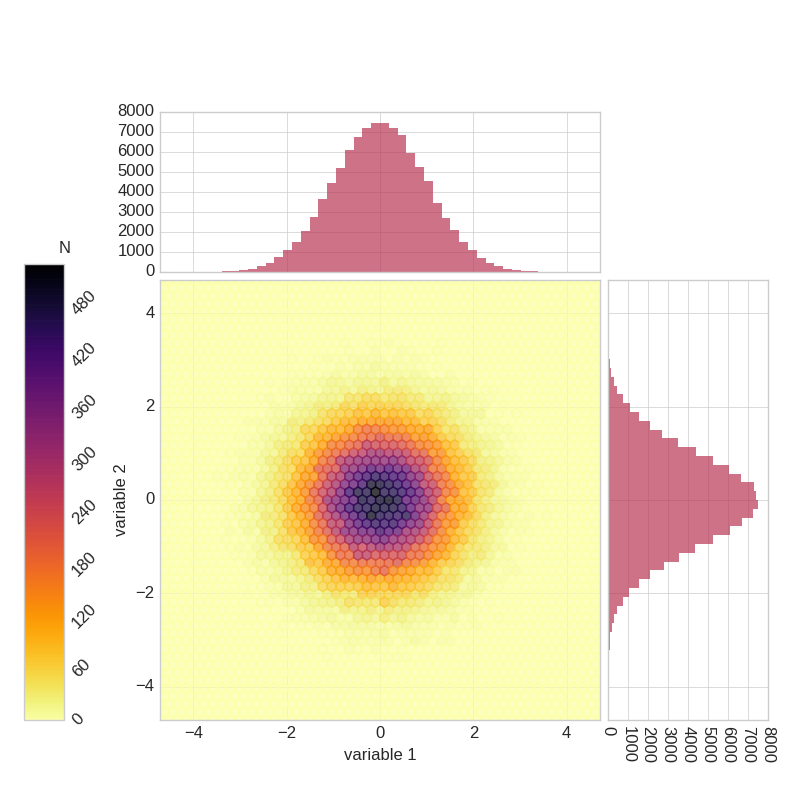
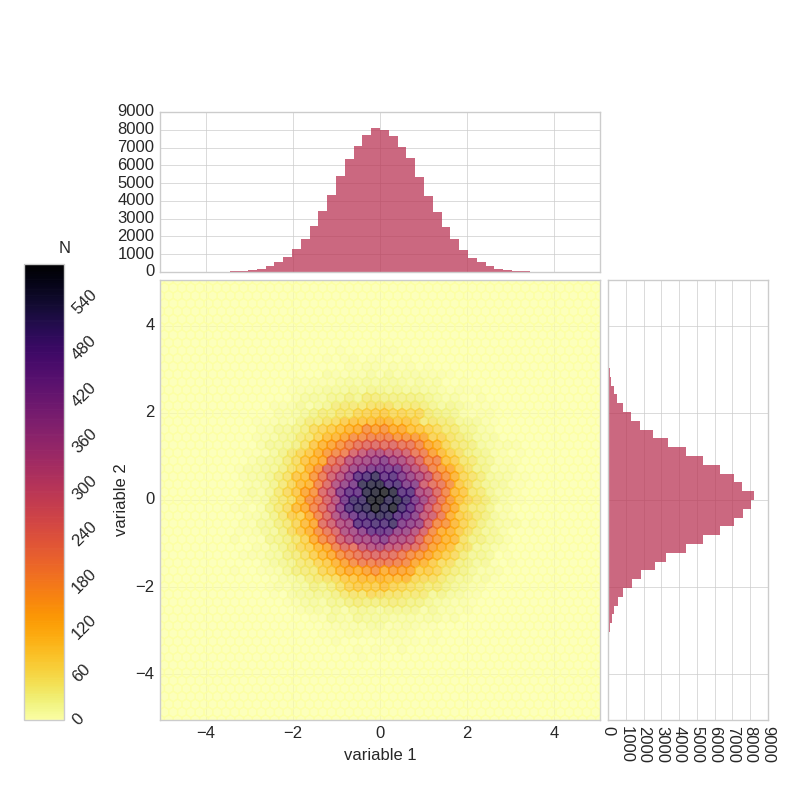
added alpha parameters for hexbin and marginals

diff --git a/qplots/qplots/qplots.py b/qplots/qplots/qplots.py
@@ -8,7 +8,7 @@ from matplotlib.widgets import Slider, Button, RadioButtons
 #_mpl.rcParams['lines.markeredgewidth'] = 1 # set default markeredgewidth to 1 overriding seaborn's default value of 0
 _plt.style.use('seaborn-whitegrid')
 
-def joint_plot(x, y, marginalBins=50, gridsize=50, plotlimits=None, logscale_cmap=False, logscale_marginals=False, cmap="inferno_r", marginalCol=None, figsize=(8, 8), fontsize=8, *args, **kwargs):
+def joint_plot(x, y, marginalBins=50, gridsize=50, plotlimits=None, logscale_cmap=False, logscale_marginals=False, alpha_hexbin=0.75, alpha_marginals=0.75, cmap="inferno_r", marginalCol=None, figsize=(8, 8), fontsize=8, *args, **kwargs):
     """
     Plots some x and y data using hexbins along with a colorbar
     and marginal distributions (X and Y histograms).
@@ -34,6 +34,10 @@ def joint_plot(x, y, marginalBins=50, gridsize=50, plotlimits=None, logscale_cma
     logscale_marginals : bool, optional
         Sets whether to use a logscale for the marignals.
         Defaults to False.
+    alpha_hexbin : float
+        Alpha value to use for hexbins and color map
+    alpha_marginals : float
+        Alpha value to use for marginal histograms
     cmap : string, optional
         Specifies the colormap to use, see
         https://matplotlib.org/users/colormaps.html
@@ -119,13 +123,15 @@ def joint_plot(x, y, marginalBins=50, gridsize=50, plotlimits=None, logscale_cma
                 plotlimits = ymax * 1.1
 
         # the hexbin plot:
-        hb = axHexBin.hexbin(x, y, gridsize=gridsize, bins=hexbinscale, cmap=cmapOb, alpha=0.75, extent=(-plotlimits, plotlimits, -plotlimits, plotlimits), *args, **kwargs)
+        hb = axHexBin.hexbin(x, y, gridsize=gridsize, bins=hexbinscale, cmap=cmap, alpha=alpha_hexbin, extent=(-plotlimits, plotlimits, -plotlimits, plotlimits), *args, **kwargs)
         axHexBin.axis([-plotlimits, plotlimits, -plotlimits, plotlimits])
 
         cbaraxes = fig.add_axes(cbar_pos)  # This is the position for the colorbar
         #cbar = _plt.colorbar(axp, cax = cbaraxes)
-        cbar = fig.colorbar(hb, cax = cbaraxes, alpha=0.75) #, orientation="horizontal"
+        cbar = fig.colorbar(hb, cax = cbaraxes, drawedges=False) #, orientation="horizontal"
         cbar.solids.set_edgecolor("face")
+        cbar.solids.set_rasterized(True)
+        cbar.solids.set_alpha(alpha_hexbin)
         cbar.ax.set_yticklabels(cbar.ax.yaxis.get_ticklabels(), y=0, rotation=45)
         cbar.set_label(cbarlabel, labelpad=-25, y=1.05, rotation=0)
     
@@ -138,9 +144,9 @@ def joint_plot(x, y, marginalBins=50, gridsize=50, plotlimits=None, logscale_cma
         lim = plotlimits #(int(xymax/binwidth) + 1) * binwidth
 
         bins = _np.arange(-lim, lim + binwidth, binwidth)
-        axHistx.hist(x, bins=bins, color=marginalCol, alpha=0.7, linewidth=0)
+        axHistx.hist(x, bins=bins, color=marginalCol, alpha=alpha_marginals, linewidth=0)
         axHistx.set_yscale(value=scale)
-        axHisty.hist(y, bins=bins, orientation='horizontal', color=marginalCol, alpha=0.7, linewidth=0)
+        axHisty.hist(y, bins=bins, orientation='horizontal', color=marginalCol, alpha=alpha_marginals, linewidth=0)
         axHisty.set_xscale(value=scale)
 
         _plt.setp(axHistx.get_xticklabels(), visible=False) # sets x ticks to be invisible while keeping gridlines
